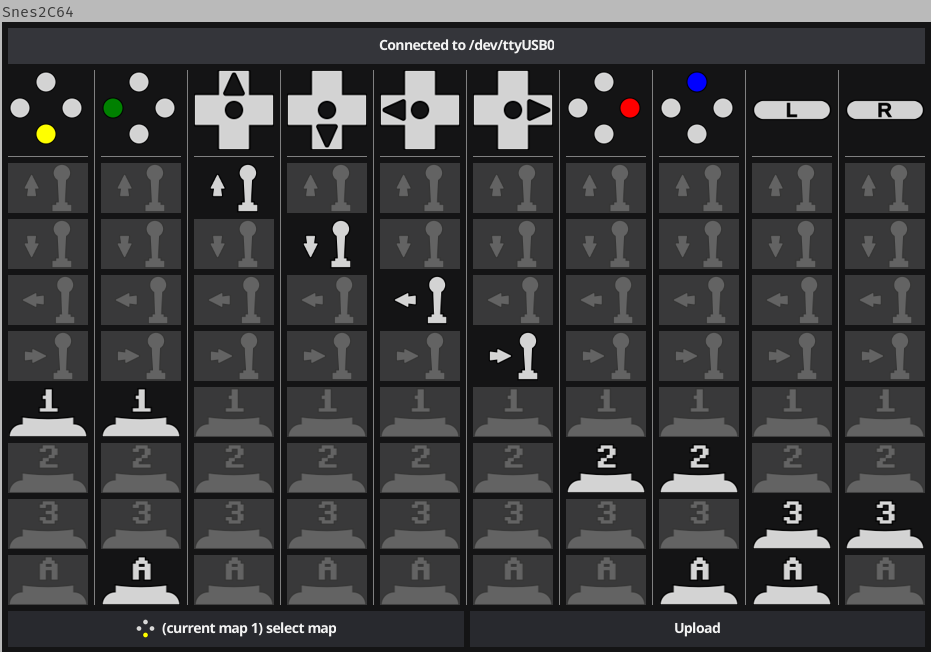
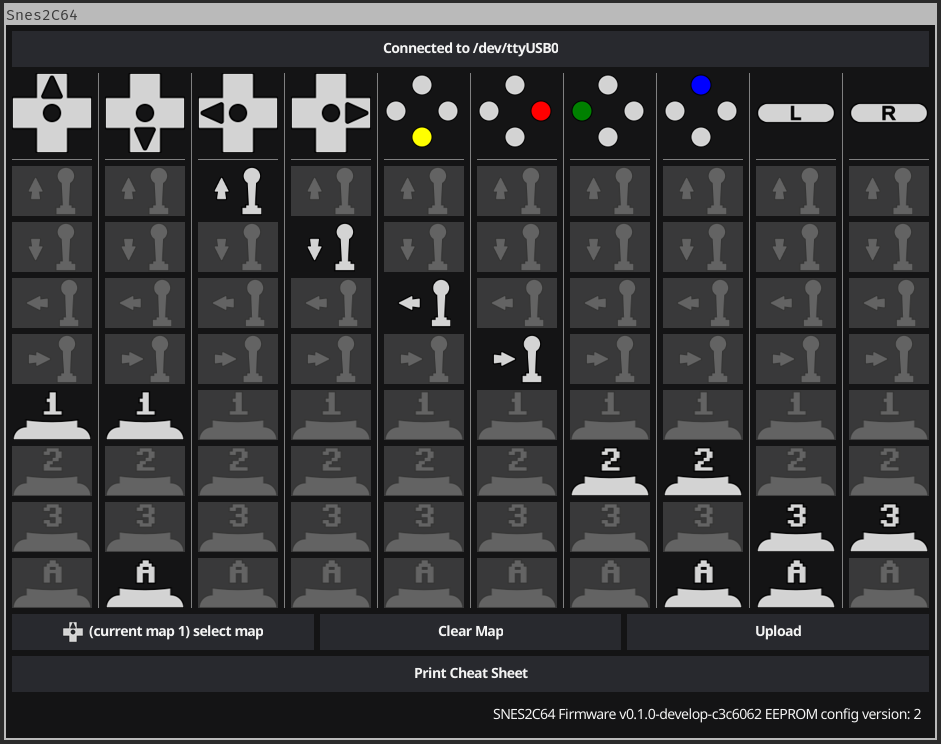
button order has changed

diff --git a/docs/index.rst b/docs/index.rst
@@ -299,7 +299,7 @@ game play and can be configured freely. you are able to configure up to
 firmware before flashing, or by changing them with the configuration
 tool afterwards.
 
-Any of these Buttons can be mapt to one, multiple or none of the
+Any of these Buttons can be mapped to one, multiple or none of the
 following functions:
 
 -  Joystick Up
@@ -539,19 +539,19 @@ Map to Button Mapping is as follows:
     :header-rows: 1
 
     * - 1
-      - |B|
-    * - 2
-      - |Y|
-    * - 3
       - |SU|
-    * - 4
+    * - 2
       - |SD|
-    * - 5
+    * - 3
       - |SL|
-    * - 6
+    * - 4
       - |SR|
-    * - 7
+    * - 5
+      - |B|
+    * - 6
       - |A|
+    * - 7
+      - |Y|
     * - 8
       - |X|
 
